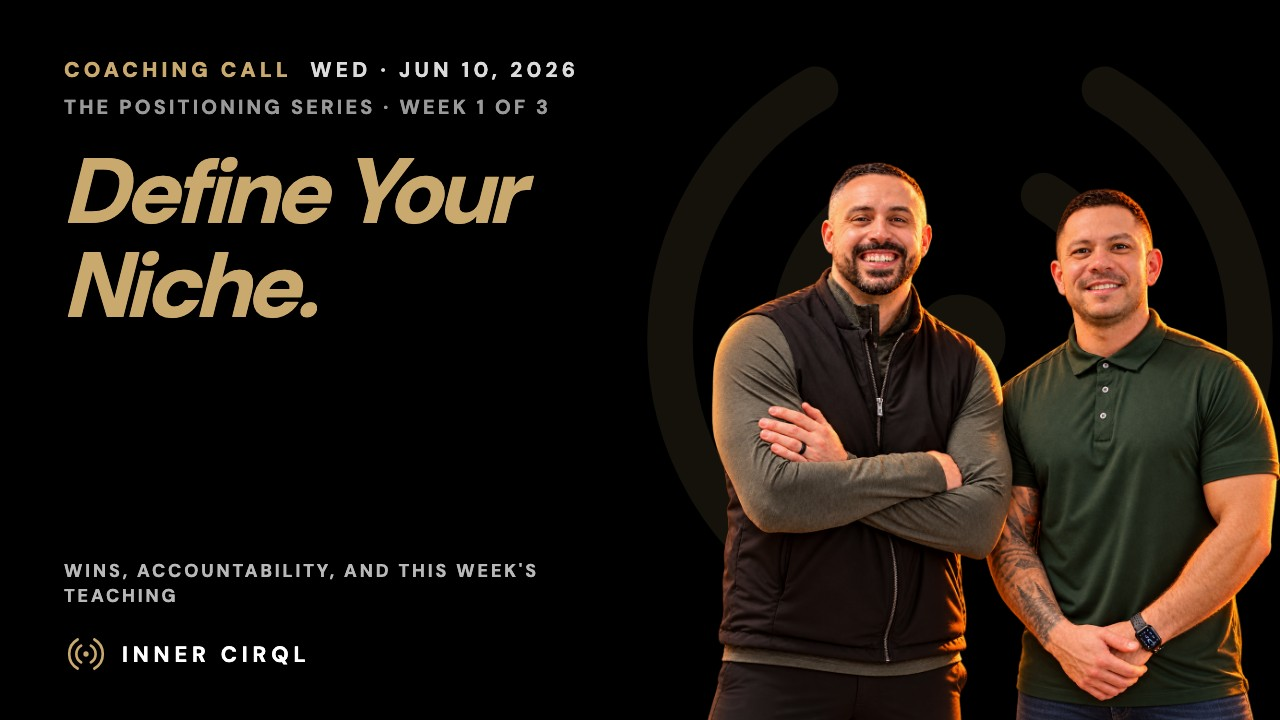
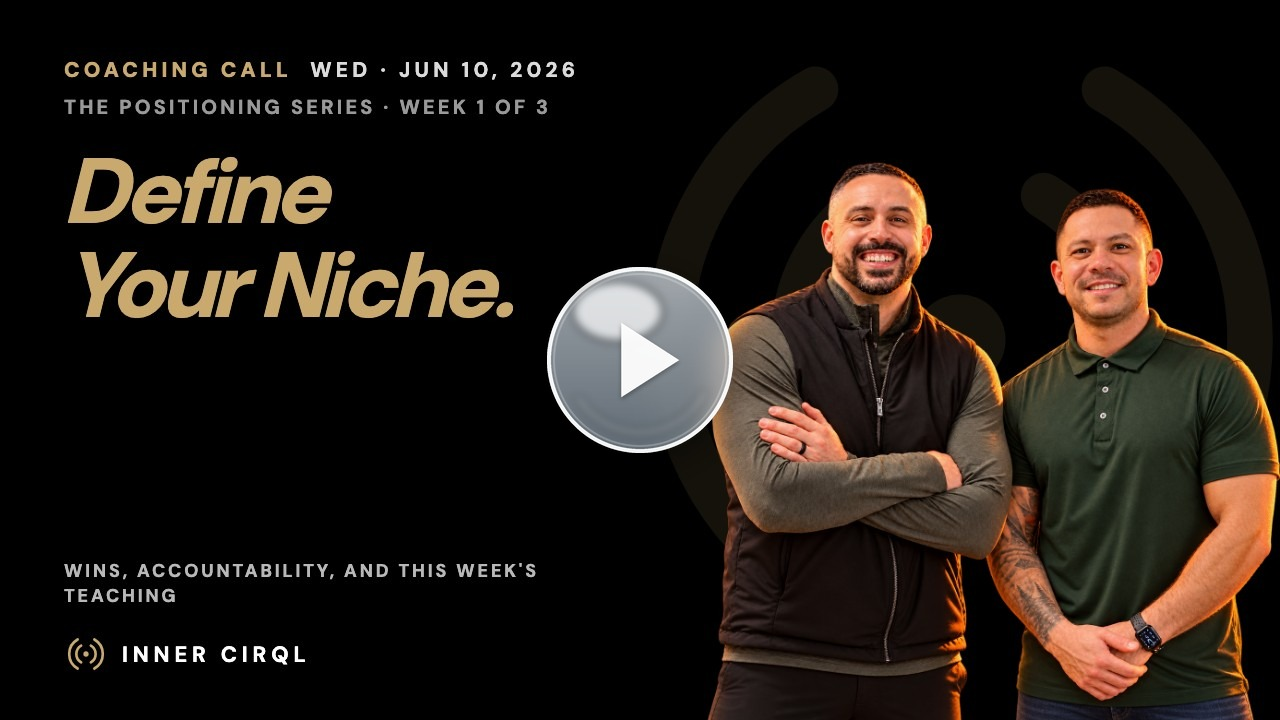
Training: retitle Jun 10 coaching call (The Positioning Series · Week 1 · Niche.) + thumbnail

Changed region(s): [[0.4062, 0.3667, 0.5938, 0.6417], [0.0312, 0.3361, 0.4062, 0.4583], [0.2812, 0.2139, 0.4375, 0.3361]]

diff --git a/training/index.html b/training/index.html
@@ -94,6 +94,26 @@ window.LIBRARY = {
   ],
   "items": [
     {
+      "id": "v-2026-06-10",
+      "date": "2026-06-10",
+      "dateLabel": "June 10, 2026",
+      "series": "positioning",
+      "week": 1,
+      "name": "Niche.",
+      "title": "The Positioning Series · Week 1 · Niche.",
+      "headline": [
+        "Define Your",
+        "Niche."
+      ],
+      "sub": "The Positioning Series · Week 1 of 3",
+      "desc": "The Positioning Series, Week 1: define your Niche with the 3 P's. Wins, accountability, and the teaching segment, edited replay.",
+      "href": "https://coach.theinnercirql.com/2026-06-10/",
+      "pdf": null,
+      "slides": null,
+      "embed": "https://www.youtube.com/embed/1KuhnMXoUxI?rel=0&modestbranding=1",
+      "thumb": "/assets/thumbs/jun-10-call.jpg?v=29920121"
+    },
+    {
       "id": "v-2026-06-03",
       "date": "2026-06-03",
       "dateLabel": "June 3, 2026",
@@ -212,26 +232,6 @@ window.LIBRARY = {
       "slides": null,
       "embed": "https://www.youtube.com/embed/-776aqFazVE?rel=0&modestbranding=1",
       "thumb": "/assets/thumbs/aug-19-call.jpg?v=1"
-    },
-    {
-      "id": "v-2026-06-10",
-      "date": "2026-06-10",
-      "dateLabel": "June 10, 2026",
-      "series": "positioning",
-      "week": 1,
-      "name": "Niche.",
-      "title": "The Positioning Series · Week 1 · Niche.",
-      "headline": [
-        "Define Your",
-        "Niche."
-      ],
-      "sub": "The Positioning Series · Week 1 of 3",
-      "desc": "The Positioning Series, Week 1: define your Niche with the 3 P's. Wins, accountability, and the teaching segment, edited replay.",
-      "href": "https://coach.theinnercirql.com/2026-06-10/",
-      "pdf": null,
-      "slides": null,
-      "embed": "https://www.youtube.com/embed/1KuhnMXoUxI?rel=0&modestbranding=1",
-      "thumb": "/assets/thumbs/jun-10-call.jpg?v=1"
     },
     {
       "id": "v-2026-10-14",
